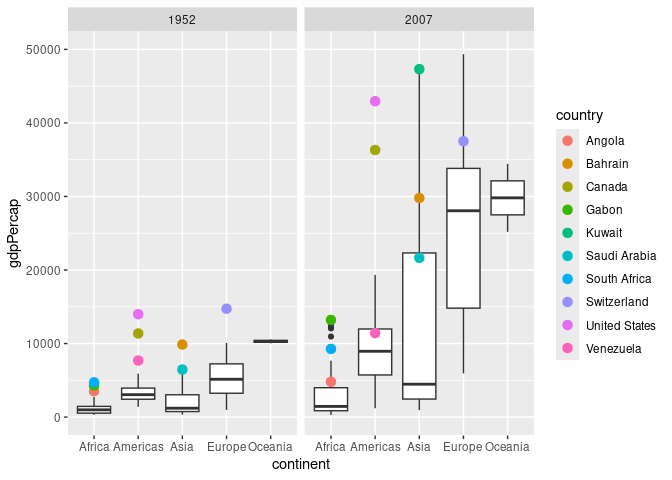
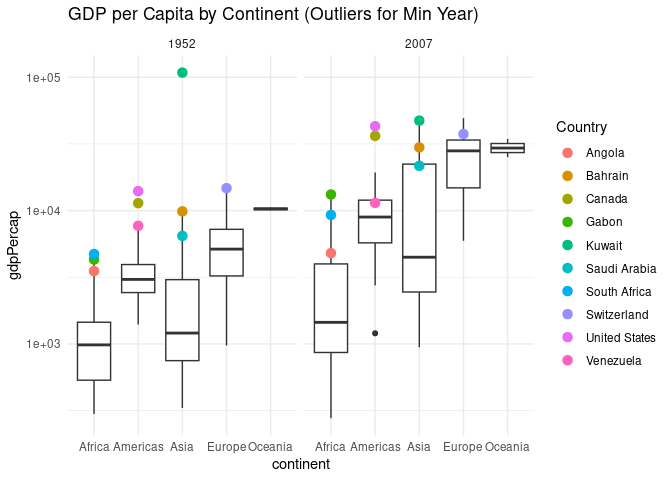
finished assignment 4 for revision

diff --git a/data-science-curriculum-build/challenges/c04-gapminder-assignment.md b/data-science-curriculum-build/challenges/c04-gapminder-assignment.md
@@ -103,7 +103,8 @@ you’ll be responsible for doing another cycle of EDA on your own!
 
 ### **q0** Perform your “first checks” on the dataset. What variables are in this
 
-dataset?
+dataset? Country, Continent, Year, Life expectancy, population, gdp per
+capita
 
 ``` r
 ## TASK: Do your "first checks" here!
@@ -216,9 +217,10 @@ highest_gdp_country
 
 ``` r
 min_year_df%>% 
-  filter(country != "Kuwait") %>% 
+  # filter(country != "Kuwait") %>% 
   ggplot(aes(x = continent, y = gdpPercap)) +
-  geom_boxplot()
+  geom_boxplot()+
+  scale_y_log10()
 ```
 
 ![](c04-gapminder-assignment_files/figure-gfm/q2-task-1.png)<!-- -->
@@ -232,21 +234,14 @@ min_year_df%>%
 
 -First of all, because Oceania only has two data points, the box plot
 doesn’t reveal much about its distribution. However, it does have the
-highest median GDP per capita among all continents.Africa and Asia have
-the lowest median GDP per capita, but there’s a key difference between
-them—Asia’s box extends further upward, suggesting a wider range of GDP
-values, while Africa’s box is narrower, with the median sitting near the
-middle, indicating that most African countries have GDP per capita
-values that are more tightly concentrated.Europe has both a long box and
-long whiskers, meaning GDP per capita varies significantly across the
-continent. The median sits right in the middle, suggesting a more evenly
-distributed spread of values. The Americas show a similar pattern, but
-with a narrower box and whiskers, meaning the GDP values are more
-concentrated than in Europe. This could also suggest that there are
-fewer countries in the Americas compared to Europe.There are a few
-outliers in every continent (except Oceania), but what really stands out
-is that even the highest outliers in Africa fall below Europe’s median
-GDP per capita, emphasizing the economic disparity between continents.
+highest median GDP per capita among all continents. Americas has a
+narrow box and whiskers, indicating that the data are more narrowly
+distributed. We see that asia has the widest distribution (long box and
+long whiskers) indicating that the data has high variability. There are
+a few outliers in every continent (except Oceania), but what really
+stands out is that even the highest outliers in Africa fall below
+Europe’s median GDP per capita, emphasizing the economic disparity
+between continents.
 
 **Difficulties & Approaches**:
 
@@ -337,31 +332,27 @@ gapminder %>%
     size = 3
   ) +
   facet_wrap(~ year) + 
-  coord_cartesian(ylim = c(0, 50000))
-```
-
-![](c04-gapminder-assignment_files/figure-gfm/q4-task-1.png)<!-- -->
-
-``` r
+   scale_y_log10()+
   labs(title = "GDP per Capita by Continent (Outliers for Min Year)",
        color = "Country") +
   theme_minimal()
 ```
 
-    ## NULL
+![](c04-gapminder-assignment_files/figure-gfm/q4-task-1.png)<!-- -->
 
 **Observations**:
 
-- To avoid the plot being skewed by Kuwait, I set a y-axis limit to
-  remove it from the left plot. Most of the countries that were outliers
-  are still in the higher GDP per capita range, but now only the US,
-  Canada, South Africa, and Gabon remain as outliers. The others have
-  either fallen within the whiskers or, in the case of countries like
-  Saudi Arabia and Venezuela, have moved to the upper limit of the box.
-  It’s also worth noting that the variance in Asia and Europe has
-  increased significantly, with their boxes and whiskers becoming
-  noticeably longer. The gap between the medians across continents has
-  widened a lot more. This data exhibits heteroscedasticity.
+- Most of the countries that were outliers are still in the higher GDP
+  per capita range, but now only the US, Canada, South Africa, and Gabon
+  remain as outliers. The others have either fallen within the whiskers
+  or, in the case of countries like Saudi Arabia and Venezuela, have
+  moved to the upper limit of the box. It’s also worth noting that the
+  variance in Asia and Africa has increased significantly, with their
+  boxes and whiskers becoming noticeably longer. The gap between the
+  medians across continents has widened. This data exhibits
+  heteroskedasticity across time within continent, we see this effect
+  especially in asia and africa as their data become even more scattered
+  over the years.
 
 # Your Own EDA
 
@@ -376,18 +367,140 @@ the relationship between variables, or something else entirely.
 
 ``` r
 ## TASK: Your first graph
+gapminder %>% 
+  filter(year == year_min) %>% 
+  ggplot(aes(x = continent, y = lifeExp))+
+  geom_boxplot()+
+  labs(title = "Life expectancy by Continent 1952")+
+      geom_point(
+    data = . %>%
+      filter(country %in% c("Reunion","Gambia", "Turkey", "Norway", "Canada", "Haiti", "Israel", "Afghanistan")),
+    aes(color = country),  
+    size = 3
+  ) +
+  theme_minimal()
 ```
 
-- (Your notes and observations here)
+![](c04-gapminder-assignment_files/figure-gfm/q5-task1-1.png)<!-- -->
+
+``` r
+max_year_df <- gapminder %>% 
+  filter(year == year_max)
+ordered <-min_year_df %>% 
+  filter(continent == "Asia") %>% # switch continents
+  arrange(desc(lifeExp))
+ordered
+```
+
+    ## # A tibble: 33 × 6
+    ##    country          continent  year lifeExp      pop gdpPercap
+    ##    <fct>            <fct>     <int>   <dbl>    <int>     <dbl>
+    ##  1 Israel           Asia       1952    65.4  1620914     4087.
+    ##  2 Japan            Asia       1952    63.0 86459025     3217.
+    ##  3 Hong Kong, China Asia       1952    61.0  2125900     3054.
+    ##  4 Singapore        Asia       1952    60.4  1127000     2315.
+    ##  5 Taiwan           Asia       1952    58.5  8550362     1207.
+    ##  6 Sri Lanka        Asia       1952    57.6  7982342     1084.
+    ##  7 Lebanon          Asia       1952    55.9  1439529     4835.
+    ##  8 Kuwait           Asia       1952    55.6   160000   108382.
+    ##  9 Bahrain          Asia       1952    50.9   120447     9867.
+    ## 10 Thailand         Asia       1952    50.8 21289402      758.
+    ## # ℹ 23 more rows
+
+``` r
+#"Reunion","Gambia", "Turkey", "Norway", "Canada", "Haiti", "Israel", "Afghanistan"
+```
+
+- We can observe that there is a lot of spread in the data in americas
+  and asia(by their long boxes an whiskers). I wanted to see the
+  countries with the longest life expectancy and shortest in their
+  continent so I found them by inspecting the data and marked them out.
+  If we compare this graph to the gdp per capita in 1952, we can see
+  almost identical patterns. Which suggests that there exists some
+  degree of positive relationship between life expectancy and gdp per
+  capita.
 
 ``` r
 ## TASK: Your second graph
+gapminder %>% 
+  filter(year == year_max) %>% 
+  ggplot(aes(x = continent, y = lifeExp))+
+  geom_boxplot()+
+    geom_point(
+    data = . %>%
+      filter(country %in% c("Reunion","Gambia", "Turkey", "Norway", "Canada", "Haiti", "Israel", "Afghanistan")),
+    aes(color = country),  
+    size = 3
+  ) +
+  labs(title = "Life expectancy by Continent 2007")+
+  theme_minimal()
 ```
 
-- (Your notes and observations here)
+![](c04-gapminder-assignment_files/figure-gfm/q5-task2-1.png)<!-- -->
+
+- Compared to the 1952 data, the spread of life expectancy decreased
+  across all continents except Africa. Their boxes and whiskers both
+  became shorter, meaning life expectancy became more concentrated.
+  Despite this, every continent saw an overall increase in mean life
+  expectancy. The countries with the highest and lowest life expectancy
+  within each continent mostly stayed in the same position, except for
+  Gambia, which climbed to the upper edge of the box. The wide spread in
+  Africa’s life expectancy suggests a big disparity in resource
+  distribution.
 
 ``` r
 ## TASK: Your third graph
+life_exp_diff <- gapminder %>%
+  filter(year %in% c(1952, 2007)) %>%
+  select(lifeExp, year, country, continent) %>% 
+  spread(year, lifeExp) %>% 
+  mutate(lifeExp_change = `2007` - `1952`)
+life_exp_diff %>% 
+  arrange(lifeExp_change)
 ```
 
-- (Your notes and observations here)
+    ## # A tibble: 142 × 5
+    ##    country          continent `1952` `2007` lifeExp_change
+    ##    <fct>            <fct>      <dbl>  <dbl>          <dbl>
+    ##  1 Zimbabwe         Africa      48.5   43.5         -4.96 
+    ##  2 Swaziland        Africa      41.4   39.6         -1.79 
+    ##  3 Zambia           Africa      42.0   42.4          0.346
+    ##  4 Lesotho          Africa      42.1   42.6          0.454
+    ##  5 Botswana         Africa      47.6   50.7          3.11 
+    ##  6 South Africa     Africa      45.0   49.3          4.33 
+    ##  7 Rwanda           Africa      40     46.2          6.24 
+    ##  8 Liberia          Africa      38.5   45.7          7.20 
+    ##  9 Congo, Dem. Rep. Africa      39.1   46.5          7.32 
+    ## 10 Norway           Europe      72.7   80.2          7.53 
+    ## # ℹ 132 more rows
+
+``` r
+life_exp_diff %>%   
+  ggplot(aes(x = continent, y = lifeExp_change)) +
+  geom_boxplot() +
+      geom_point(
+    data = . %>%
+      filter(country %in% c("Reunion","Gambia", "Turkey", "Norway", "Canada", "Haiti", "Israel", "Afghanistan")),
+    aes(color = country),  
+    size = 3
+  ) +
+  labs(title = "Life expectancy change by Continent between 1952 & 2007") +
+  theme_minimal()
+```
+
+![](c04-gapminder-assignment_files/figure-gfm/q5-task3-1.png)<!-- -->
+
+- I plotted the difference of life expectancy between 1952 and 2007. I
+  immediately noticed that there are countries that had negative life
+  expectancy change. I went back and inspected the data and found that
+  they are zimbabwe and swaziland( i wonder why). Interestingly, we see
+  that except Reunion, all the top performing countries in life
+  expectancy actually are on the lower end of change in life expectancy.
+  This makes sense because there are a limit to which how long humans
+  can live (should plateau out at around 80). I also want to point out
+  that although Turkey has the shortest life expectancy both 1952 and
+  2007, it is the outlier in Europe which they gained the most years in
+  life expectancy in Europe. On the contrary, Afghanistan gained little
+  life expectancy and became an outliar in 2007 life expectancy. Asia
+  gained the most median life expectancy, I wonder if this indicates
+  that Asia experienced the most economic boom.
